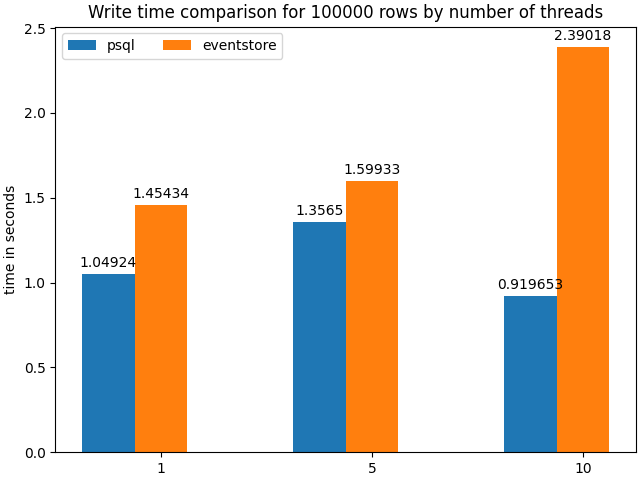
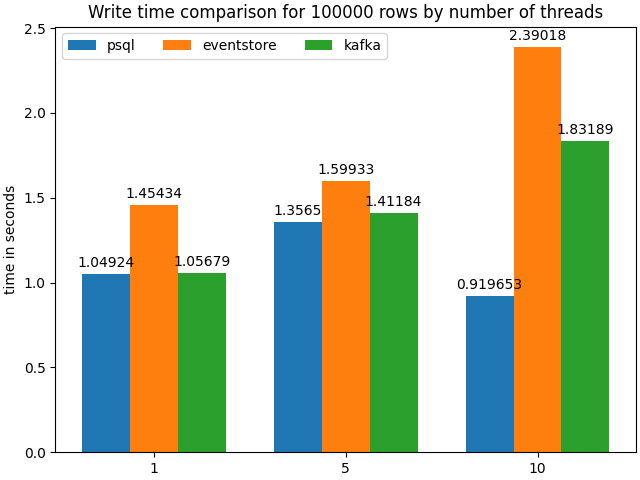
[UPD] graph

diff --git a/graph.py b/graph.py
@@ -20,18 +20,18 @@ for num_row in NUM_ROWS:
     eventstore_list = []
     kafka_list = []
     for num_thread in NUM_THREADS:
-        psql_list.append(psql_write.get(f"{num_row}_{num_thread}", 0))
-        eventstore_list.append(eventstore_write.get(f"{num_row}_{num_thread}", 0))
-        # kafka_list.append(kafka_write.get(f"{num_row}_{num_thread}", 0))
+        psql_list.append(psql_read.get(f"{num_row}_{num_thread}", 0))
+        eventstore_list.append(eventstore_read.get(f"{num_row}_{num_thread}", 0))
+        kafka_list.append(kafka_read.get(f"{num_row}_{num_thread}", 0))
     rects = ax.bar(x + width * 0, psql_list, width, label=f"psql")
     ax.bar_label(rects, padding=3)
     rects = ax.bar(x + width * 1, eventstore_list, width, label=f"eventstore")
     ax.bar_label(rects, padding=3)
-    # rects = ax.bar(x + width * 2, kafka_list, width, label=f"kafka")
-    # ax.bar_label(rects, padding=3)
+    rects = ax.bar(x + width * 2, kafka_list, width, label=f"kafka")
+    ax.bar_label(rects, padding=3)
 
     ax.set_ylabel('time in seconds')
-    ax.set_title(f'Write time comparison for {num_row} rows by number of threads')
+    ax.set_title(f'Read time comparison for {num_row} rows by number of threads')
     ax.set_xticks(x + width, NUM_THREADS)
     ax.legend(loc='upper left', ncols=3)
-    plt.savefig(f'write_{num_row}.png')
+    plt.savefig(f'read_{num_row}.png')
